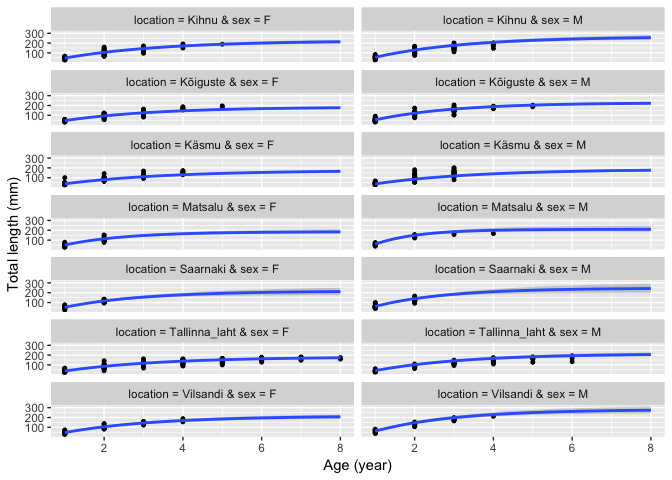
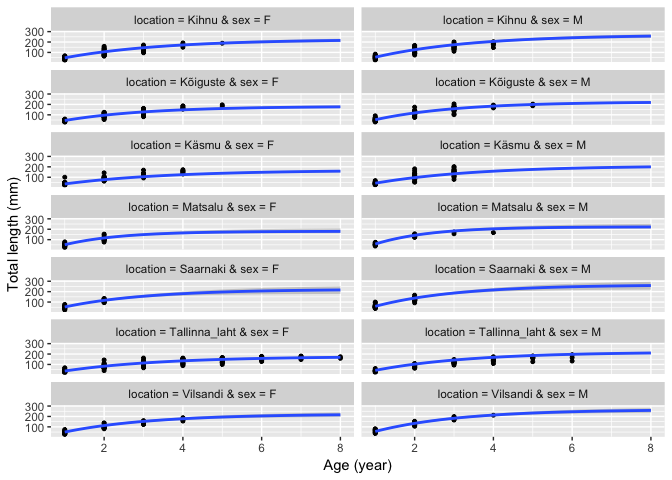
update figure size

diff --git a/R/analyse_otol.md b/R/analyse_otol.md
@@ -92,6 +92,8 @@ mudil %>%
     ## 10     1     2 Kõiguste          1
     ## # ... with 951 more rows
 
+Update sex categories.
+
 ``` r
 mudil_mod <- mudil %>% 
   mutate(location = str_replace_all(location, "\\s", "_"),
@@ -140,7 +142,7 @@ ggplot(data = mudil_ad) +
   labs(x = "Age (year)", y = "Total length (mm)")
 ```
 
-![](analyse_otol_files/figure-gfm/unnamed-chunk-7-1.png)<!-- -->
+![](analyse_otol_files/figure-gfm/unnamed-chunk-8-1.png)<!-- -->
 
 Weird fish in Saarnaki:
 
@@ -166,7 +168,7 @@ ggplot(data = mudil_ad) +
   labs(x = "Age (year)", y = "Total length (mm)")
 ```
 
-![](analyse_otol_files/figure-gfm/unnamed-chunk-9-1.png)<!-- -->
+![](analyse_otol_files/figure-gfm/unnamed-chunk-10-1.png)<!-- -->
 
 Average length at age in adults
 
@@ -179,7 +181,7 @@ ggplot(data = mudil_ad, mapping = aes(x = age, y = tl)) +
   labs(x = "Age (year)", y = "Total length (mm)")
 ```
 
-![](analyse_otol_files/figure-gfm/unnamed-chunk-10-1.png)<!-- -->
+![](analyse_otol_files/figure-gfm/unnamed-chunk-11-1.png)<!-- -->
 
 Growth curves per introduction year
 
@@ -194,7 +196,7 @@ ggplot(data = mudil_ad, mapping = aes(x = age, y = tl)) +
        y = "Total length (mm)")
 ```
 
-![](analyse_otol_files/figure-gfm/unnamed-chunk-11-1.png)<!-- -->
+![](analyse_otol_files/figure-gfm/unnamed-chunk-12-1.png)<!-- -->
 
 ## Modeling
 
@@ -417,10 +419,10 @@ p <- plot(marginal_effects(fit2, conditions = cond), points = TRUE, ask = FALSE,
 p[[1]] + labs(x = "Age (year)", y = "Total length (mm)")
 ```
 
-![](analyse_otol_files/figure-gfm/unnamed-chunk-20-1.png)<!-- -->
+![](analyse_otol_files/figure-gfm/unnamed-chunk-21-1.png)<!-- -->
 
-Model with same t0 for all locations Test if we can use common t0 for
-all locations
+Model with same t0 for all locations to test if we can use common t0 for
+all locations.
 
 ``` r
 vbgf_coefs_f <- Linf + K ~ location + (1 | id)
@@ -515,7 +517,7 @@ p <- plot(marginal_effects(fit21, conditions = cond), points = TRUE, ask = FALSE
 p[[1]] + labs(x = "Age (year)", y = "Total length (mm)")
 ```
 
-![](analyse_otol_files/figure-gfm/unnamed-chunk-25-1.png)<!-- -->
+![](analyse_otol_files/figure-gfm/unnamed-chunk-26-1.png)<!-- -->
 
 Compare models with location-specific t0 and common t0. Let’s use waic
 as loo complains about pareto.
@@ -606,7 +608,7 @@ p <- plot(marginal_effects(fit3, conditions = cond), points = TRUE, ask = FALSE,
 p[[1]] + labs(x = "Age (year)", y = "Total length (mm)")
 ```
 
-![](analyse_otol_files/figure-gfm/unnamed-chunk-31-1.png)<!-- -->
+![](analyse_otol_files/figure-gfm/unnamed-chunk-32-1.png)<!-- -->
 
 Effect of location and sex Simple effects
 
@@ -717,7 +719,7 @@ p <- plot(marginal_effects(fit4, conditions = cond), points = TRUE, ask = FALSE,
 p[[1]] + labs(x = "Age (year)", y = "Total length (mm)")
 ```
 
-![](analyse_otol_files/figure-gfm/unnamed-chunk-36-1.png)<!-- -->
+![](analyse_otol_files/figure-gfm/unnamed-chunk-37-1.png)<!-- -->
 
 With interaction
 
@@ -867,4 +869,4 @@ p <- plot(marginal_effects(fit5, conditions = cond), points = TRUE, ask = FALSE,
 p[[1]] + labs(x = "Age (year)", y = "Total length (mm)")
 ```
 
-![](analyse_otol_files/figure-gfm/unnamed-chunk-41-1.png)<!-- -->
+![](analyse_otol_files/figure-gfm/unnamed-chunk-42-1.png)<!-- -->
